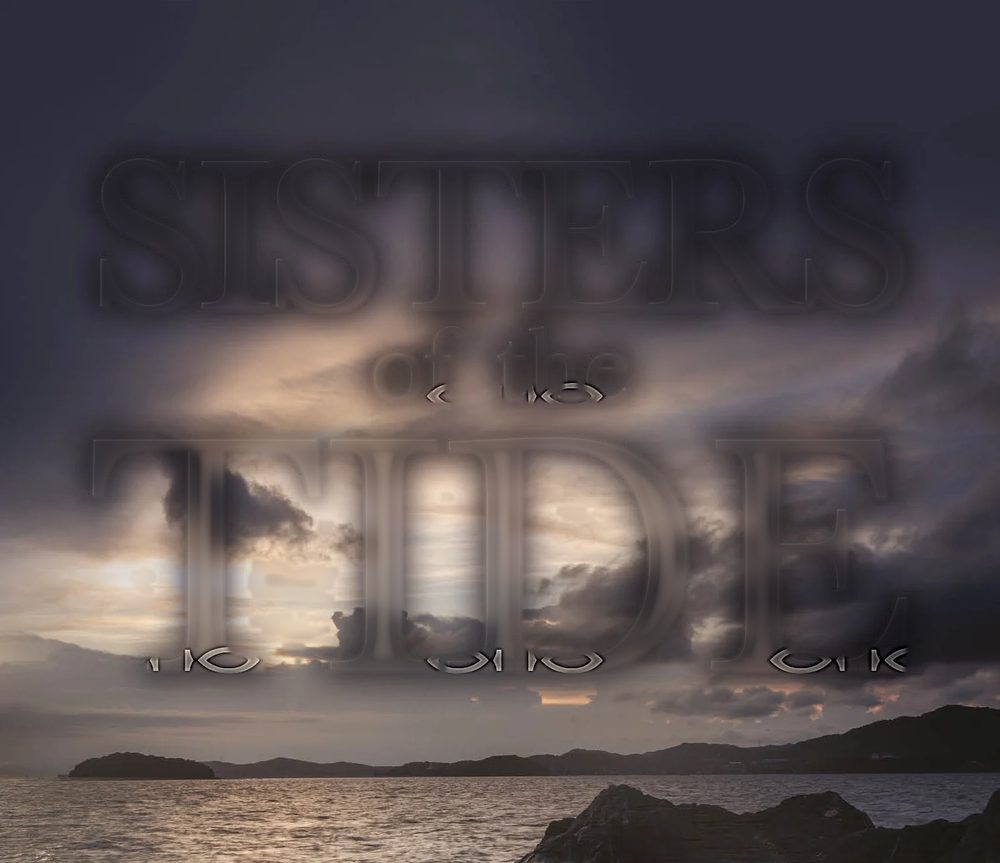
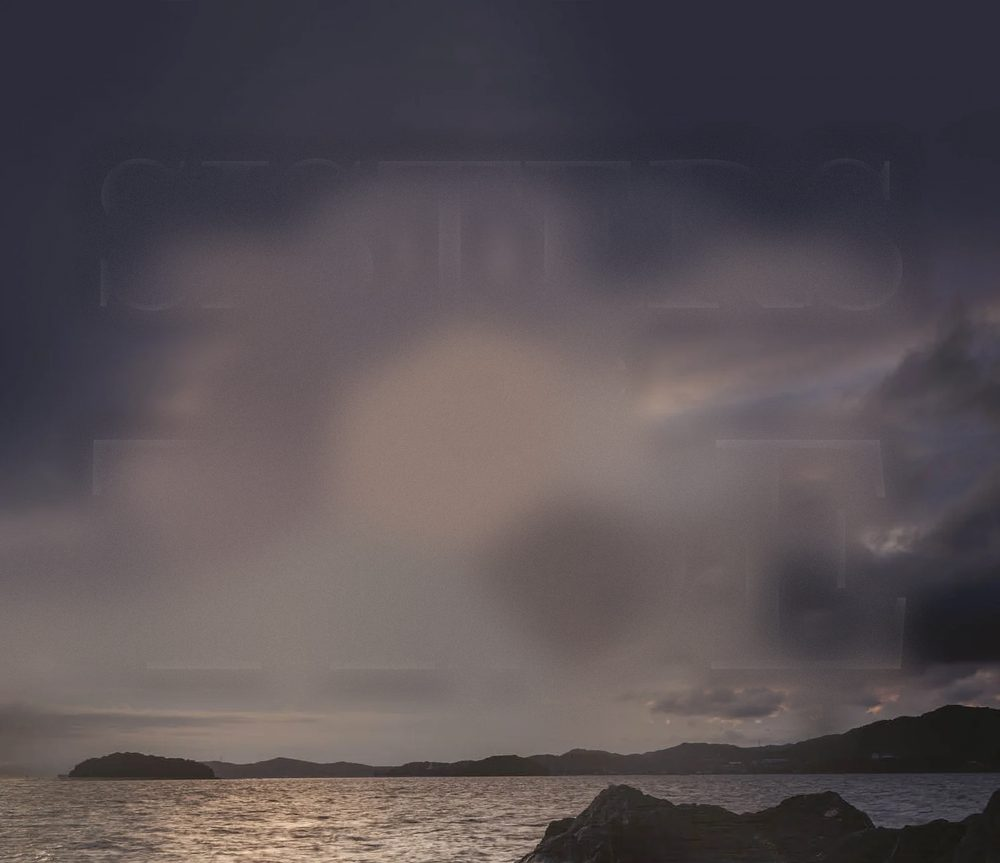
Scroll moment: the tide leaves the title word by word

Changed region(s): [[0.0, 0.1808, 0.93, 0.8436], [0.248, 0.1808, 0.279, 0.2109]]

diff --git a/index.html b/index.html
@@ -27,13 +27,13 @@ details.nav summary::-webkit-details-marker{display:none}
 details.nav div{position:absolute;bottom:100%;left:0;margin-bottom:6px;background:var(--cream);display:flex;flex-direction:column;min-width:180px}
 details.nav a{color:var(--night);text-decoration:none;padding:.7rem 1.1rem;font:500 .78rem "Jost",sans-serif;letter-spacing:.2em;text-transform:uppercase;border-top:1px solid rgba(35,36,58,.15)}
 @media(min-width:900px){details.nav{bottom:auto;top:52px;left:auto;right:22px}details.nav div{bottom:auto;top:100%;margin:6px 0 0;right:0;left:auto}}
-.hero{position:relative;height:340vh}
+.hero{position:relative;height:420vh}
 .stage{position:sticky;top:0;height:100vh;height:100svh;overflow:hidden;background:#1c1d30}
 .book{position:absolute;left:0;top:0;width:var(--bw);aspect-ratio:1515/2334;overflow:visible}
 .cam{position:absolute;inset:0;transform-origin:56% 74%;will-change:transform}
 .cam img{position:absolute;display:block;left:0;width:100%;height:auto;will-change:transform,opacity}
-#sky{top:0}#sea{top:47.5%}#rocks{top:69.97%}
-#title{left:8.78%;top:10.07%;width:82.05%;opacity:0}
+#sky{top:0}#sea{top:47.5%;transform-origin:50% 0}#rocks{top:69.97%}
+.ttl{position:absolute;left:8.78%;top:10.07%;width:82.05%}.cam .ttl img{position:relative;opacity:0}
 .edge{position:absolute;inset:0;pointer-events:none;box-shadow:0 0 0 100vmax #1c1d30;clip-path:inset(0)}
 .open{position:absolute;left:20px;right:20px;top:50%;transform:translateY(-50%);text-align:center;will-change:opacity;z-index:3}
 .open p{font-style:italic;font-size:clamp(1.7rem,7vw,3.3rem);line-height:1.18;text-shadow:0 2px 24px #000}
@@ -79,7 +79,7 @@ footer{text-align:center;color:var(--soft);font:400 .85rem "Jost",sans-serif;pad
         <img id="sky" src="img/sky.jpg" alt="" width="1000" height="1000">
         <img id="sea" src="img/sea.webp" alt="" width="1000" height="1000">
         <img id="rocks" src="img/rocks.webp" alt="" width="1000" height="1000">
-        <img id="title" src="img/title.webp" alt="" width="1000" height="300">
+        <div class="ttl"><img id="t1" src="img/t1.webp" alt="" width="820" height="162"><img id="t2" src="img/t2.webp" alt="" width="820" height="101"><img id="t3" src="img/t3.webp" alt="" width="820" height="253"></div>
       </div>
     </div>
     <div class="copy" id="copy">
@@ -141,7 +141,7 @@ footer{text-align:center;color:var(--soft);font:400 .85rem "Jost",sans-serif;pad
 </main>
 <footer>A mockup made by Sparsh Saini for Lorna Marlow. Not affiliated, not live.</footer>
 <script>
-(()=>{const hero=document.querySelector('.hero'),stage=document.getElementById('stage'),book=document.getElementById('book'),cam=document.getElementById('cam'),sky=document.getElementById('sky'),sea=document.getElementById('sea'),title=document.getElementById('title'),open=document.getElementById('open'),copy=document.getElementById('copy');
+(()=>{const hero=document.querySelector('.hero'),stage=document.getElementById('stage'),book=document.getElementById('book'),cam=document.getElementById('cam'),sky=document.getElementById('sky'),sea=document.getElementById('sea'),ws=[1,2,3].map(i=>document.getElementById('t'+i)),open=document.getElementById('open'),copy=document.getElementById('copy');
 if(matchMedia('(prefers-reduced-motion: reduce)').matches)return;
 let W,H,bw,bh,rx,ry,ht,dx,dy,tick=false;const S=3.4,cl=v=>Math.max(0,Math.min(1,v)),eio=t=>t<.5?4*t*t*t:1-Math.pow(-2*t+2,3)/2;
 function measure(){W=innerWidth;H=stage.clientHeight;const d=W>=900;bw=d?Math.min(H*.86/1.5406,W*.36):Math.min(W*.8,H*.62/1.5406);bh=bw*1.5406;
@@ -149,15 +149,15 @@ function measure(){W=innerWidth;H=stage.clientHeight;const d=W>=900;bw=d?Math.mi
  dx=(d?W*.3:W/2)-(rx+bw*.56);dy=H/2-(ry+bh*.74);ht=hero.offsetHeight-H;
  book.style.clipPath=`inset(0)`;draw()}
 function draw(){tick=false;const p=cl((scrollY-hero.offsetTop)/ht);
- const k=eio(cl(p/.64));
+ // the camera draws back out of the wave gap, then three swells break through it; each one, drawing back, leaves a word of the title in the sky
+ const k=eio(cl(p/.3));let sw=Math.sin(Math.PI*cl(p/.3))*.6;
+ for(let i=0;i<3;i++){const x=cl((p-.24-i*.19)/.2);sw+=Math.sin(Math.PI*x);
+  const w=cl((x-.5)/.45);ws[i].style.opacity=w.toFixed(3);ws[i].style.transform=`translateY(${(1-w)*bh*.06}px)`}
  cam.style.transform=`translate(${dx*(1-k)}px,${dy*(1-k)}px) scale(${1+(S-1)*(1-k)})`;
- // two swells come in over the rocks and draw back; the sea plane rides behind them
- const sw=.5-.5*Math.cos(p*Math.PI*6);
- sea.style.transform=`translateY(${-bh*.03*sw*(1-.4*k)}px) scale(${1+.02*sw})`;
+ sea.style.transform=`translateY(${-bh*.035*sw}px) scale(${1+.07*sw})`;
  sky.style.transform=`translateY(${-bh*.03*(1-k)}px)`;
- const t=cl((p-.5)/.2);title.style.opacity=t;title.style.transform=`translateY(${(1-t)*bh*.025}px)`;
- open.style.opacity=(1-cl(p/.28)).toFixed(3);
- const c=cl((p-.78)/.16);copy.style.opacity=c;stage.style.setProperty('--sc',c);
+ open.style.opacity=(1-cl(p/.14)).toFixed(3);
+ const c=cl((p-.84)/.13);copy.style.opacity=c;stage.style.setProperty('--sc',c);
  copy.style.transform=(W>=900?'translateY(-50%) ':'')+`translateY(${(1-c)*14}px)`}
 addEventListener('scroll',()=>{if(!tick){tick=true;requestAnimationFrame(draw)}},{passive:true});addEventListener('resize',measure);measure()})();
 </script>
